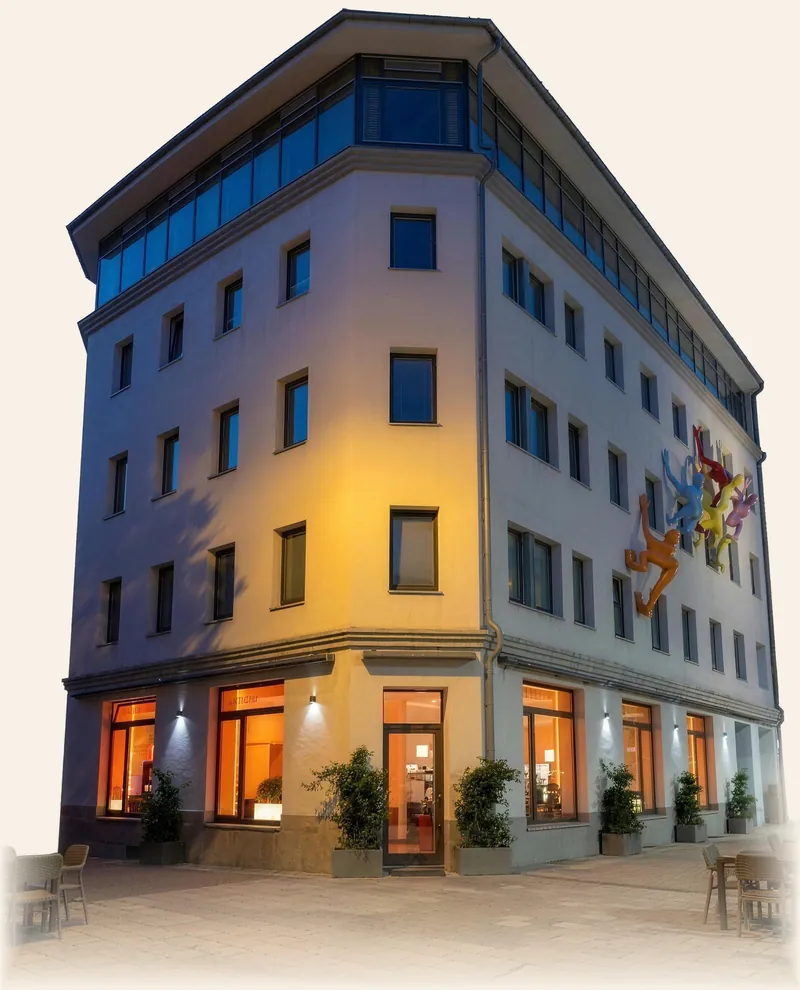
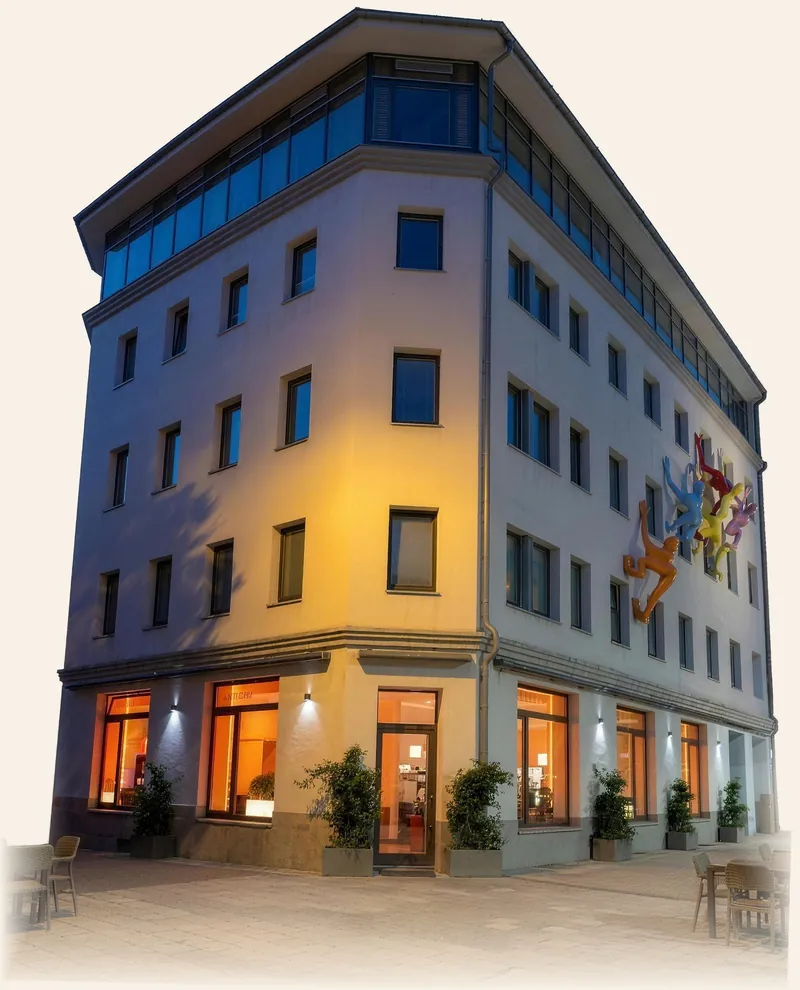
Über uns: Gebäude gerade gerichtet, Text auf Höhe der Gebäudemitte

diff --git a/ueber-uns.html b/ueber-uns.html
@@ -23,7 +23,7 @@
 <link rel="preload" href="assets/fonts/outfit-latin.woff2" as="font" type="font/woff2" crossorigin>
 <!-- страницы сайта готовятся заранее, при наведении на ссылку (Chrome) — переход почти мгновенный -->
 <script type="speculationrules">{"prerender":[{"where":{"selector_matches":"a[href$='.html'], a[href*='.html#'], a[href*='.html?']"},"eagerness":"moderate"}],"prefetch":[{"where":{"selector_matches":"a[href$='.html'], a[href*='.html#'], a[href*='.html?']"},"eagerness":"eager"}]}</script>
-<link rel="stylesheet" href="css/style.css?v=29">
+<link rel="stylesheet" href="css/style.css?v=31">
 <script src="assets/js/lenis.min.js" defer></script>
 <script src="js/site.js?v=34" defer></script>
 </head>
@@ -39,8 +39,8 @@
 
   <!-- TODO: историю дополнить реальными фактами (год открытия и т. п.) -->
   <section class="container">
-    <div class="story">
-      <div class="story__img story__img--free reveal"><img src="assets/img/eingang.webp?v=2" srcset="assets/img/eingang-800.webp?v=2 800w, assets/img/eingang.webp?v=2 1600w" sizes="(max-width: 900px) 100vw, 50vw" alt="Haupteingang des lamondi an der Bahnhofstraße am Abend"></div>
+    <div class="story story--mid">
+      <div class="story__img story__img--free reveal"><img src="assets/img/eingang.webp?v=3" srcset="assets/img/eingang-800.webp?v=3 800w, assets/img/eingang.webp?v=3 1600w" sizes="(max-width: 900px) 100vw, 50vw" alt="Haupteingang des lamondi an der Bahnhofstraße am Abend"></div>
       <div class="reveal">
         <p class="text-xl"><span data-l="de">Ein Familienrestaurant seit 2000 — und ein Ort zum Ankommen, ganz wörtlich.</span><span data-l="en">A family restaurant since 2000 — and a place to arrive, quite literally.</span></p>
         <p><span data-l="de">Das lamondi liegt direkt gegenüber dem Hauptbahnhof Bayreuth. Wer aus dem Zug steigt, ist in einer Minute bei uns; wer in Bayreuth wohnt, kommt für die Mittagspause, nach der Arbeit oder für einen langen Abend.</span><span data-l="en">lamondi sits right across from Bayreuth's main station. Step off the train and you're with us in a minute; locals drop by for lunch, after work or for a long evening.</span></p>

diff --git a/speisekarte.html b/speisekarte.html
@@ -23,7 +23,7 @@
 <link rel="preload" href="assets/fonts/outfit-latin.woff2" as="font" type="font/woff2" crossorigin>
 <!-- страницы сайта готовятся заранее, при наведении на ссылку (Chrome) — переход почти мгновенный -->
 <script type="speculationrules">{"prerender":[{"where":{"selector_matches":"a[href$='.html'], a[href*='.html#'], a[href*='.html?']"},"eagerness":"moderate"}],"prefetch":[{"where":{"selector_matches":"a[href$='.html'], a[href*='.html#'], a[href*='.html?']"},"eagerness":"eager"}]}</script>
-<link rel="stylesheet" href="css/style.css?v=29">
+<link rel="stylesheet" href="css/style.css?v=31">
 <script src="js/menu-data.js?v=7" defer></script>
 <script src="assets/js/lenis.min.js" defer></script>
 <script src="js/site.js?v=34" defer></script>

diff --git a/datenschutz.html b/datenschutz.html
@@ -23,7 +23,7 @@
 <link rel="preload" href="assets/fonts/outfit-latin.woff2" as="font" type="font/woff2" crossorigin>
 <!-- страницы сайта готовятся заранее, при наведении на ссылку (Chrome) — переход почти мгновенный -->
 <script type="speculationrules">{"prerender":[{"where":{"selector_matches":"a[href$='.html'], a[href*='.html#'], a[href*='.html?']"},"eagerness":"moderate"}],"prefetch":[{"where":{"selector_matches":"a[href$='.html'], a[href*='.html#'], a[href*='.html?']"},"eagerness":"eager"}]}</script>
-<link rel="stylesheet" href="css/style.css?v=29">
+<link rel="stylesheet" href="css/style.css?v=31">
 <script src="assets/js/lenis.min.js" defer></script>
 <script src="js/site.js?v=34" defer></script>
 </head>

diff --git a/impressum.html b/impressum.html
@@ -23,7 +23,7 @@
 <link rel="preload" href="assets/fonts/outfit-latin.woff2" as="font" type="font/woff2" crossorigin>
 <!-- страницы сайта готовятся заранее, при наведении на ссылку (Chrome) — переход почти мгновенный -->
 <script type="speculationrules">{"prerender":[{"where":{"selector_matches":"a[href$='.html'], a[href*='.html#'], a[href*='.html?']"},"eagerness":"moderate"}],"prefetch":[{"where":{"selector_matches":"a[href$='.html'], a[href*='.html#'], a[href*='.html?']"},"eagerness":"eager"}]}</script>
-<link rel="stylesheet" href="css/style.css?v=29">
+<link rel="stylesheet" href="css/style.css?v=31">
 <script src="assets/js/lenis.min.js" defer></script>
 <script src="js/site.js?v=34" defer></script>
 </head>

diff --git a/index.html b/index.html
@@ -23,7 +23,7 @@
 <link rel="preload" href="assets/fonts/outfit-latin.woff2" as="font" type="font/woff2" crossorigin>
 <!-- страницы сайта готовятся заранее, при наведении на ссылку (Chrome) — переход почти мгновенный -->
 <script type="speculationrules">{"prerender":[{"where":{"selector_matches":"a[href$='.html'], a[href*='.html#'], a[href*='.html?']"},"eagerness":"moderate"}],"prefetch":[{"where":{"selector_matches":"a[href$='.html'], a[href*='.html#'], a[href*='.html?']"},"eagerness":"eager"}]}</script>
-<link rel="stylesheet" href="css/style.css?v=29">
+<link rel="stylesheet" href="css/style.css?v=31">
 <script src="assets/js/lenis.min.js" defer></script>
 <script src="js/site.js?v=34" defer></script>
 </head>

diff --git a/reservierung.html b/reservierung.html
@@ -23,7 +23,7 @@
 <link rel="preload" href="assets/fonts/outfit-latin.woff2" as="font" type="font/woff2" crossorigin>
 <!-- страницы сайта готовятся заранее, при наведении на ссылку (Chrome) — переход почти мгновенный -->
 <script type="speculationrules">{"prerender":[{"where":{"selector_matches":"a[href$='.html'], a[href*='.html#'], a[href*='.html?']"},"eagerness":"moderate"}],"prefetch":[{"where":{"selector_matches":"a[href$='.html'], a[href*='.html#'], a[href*='.html?']"},"eagerness":"eager"}]}</script>
-<link rel="stylesheet" href="css/style.css?v=29">
+<link rel="stylesheet" href="css/style.css?v=31">
 <script src="assets/js/lenis.min.js" defer></script>
 <script src="js/site.js?v=34" defer></script>
 </head>

diff --git a/css/style.css b/css/style.css
@@ -443,6 +443,7 @@ html[lang="en"] [data-l="de"] { display: none !important; }
 .story__img { border: 1px solid var(--line); aspect-ratio: 4 / 5; overflow: hidden; }
 .story__img img { width: 100%; height: 100%; object-fit: cover; }
 .story__img--free { border: 0; } /* здание без неба — растворено в фоне */
+@media (min-width: 900px) { .story--mid { align-items: center; } .story--mid > :last-child { padding-top: 190px; } } /* текст на уровне середины здания */
 .values { display: grid; grid-template-columns: 1fr; border: 1px solid var(--line); margin-top: 28px; }
 .values > div { padding: 32px 28px; }
 .values > div + div { border-top: 1px solid var(--line); }
